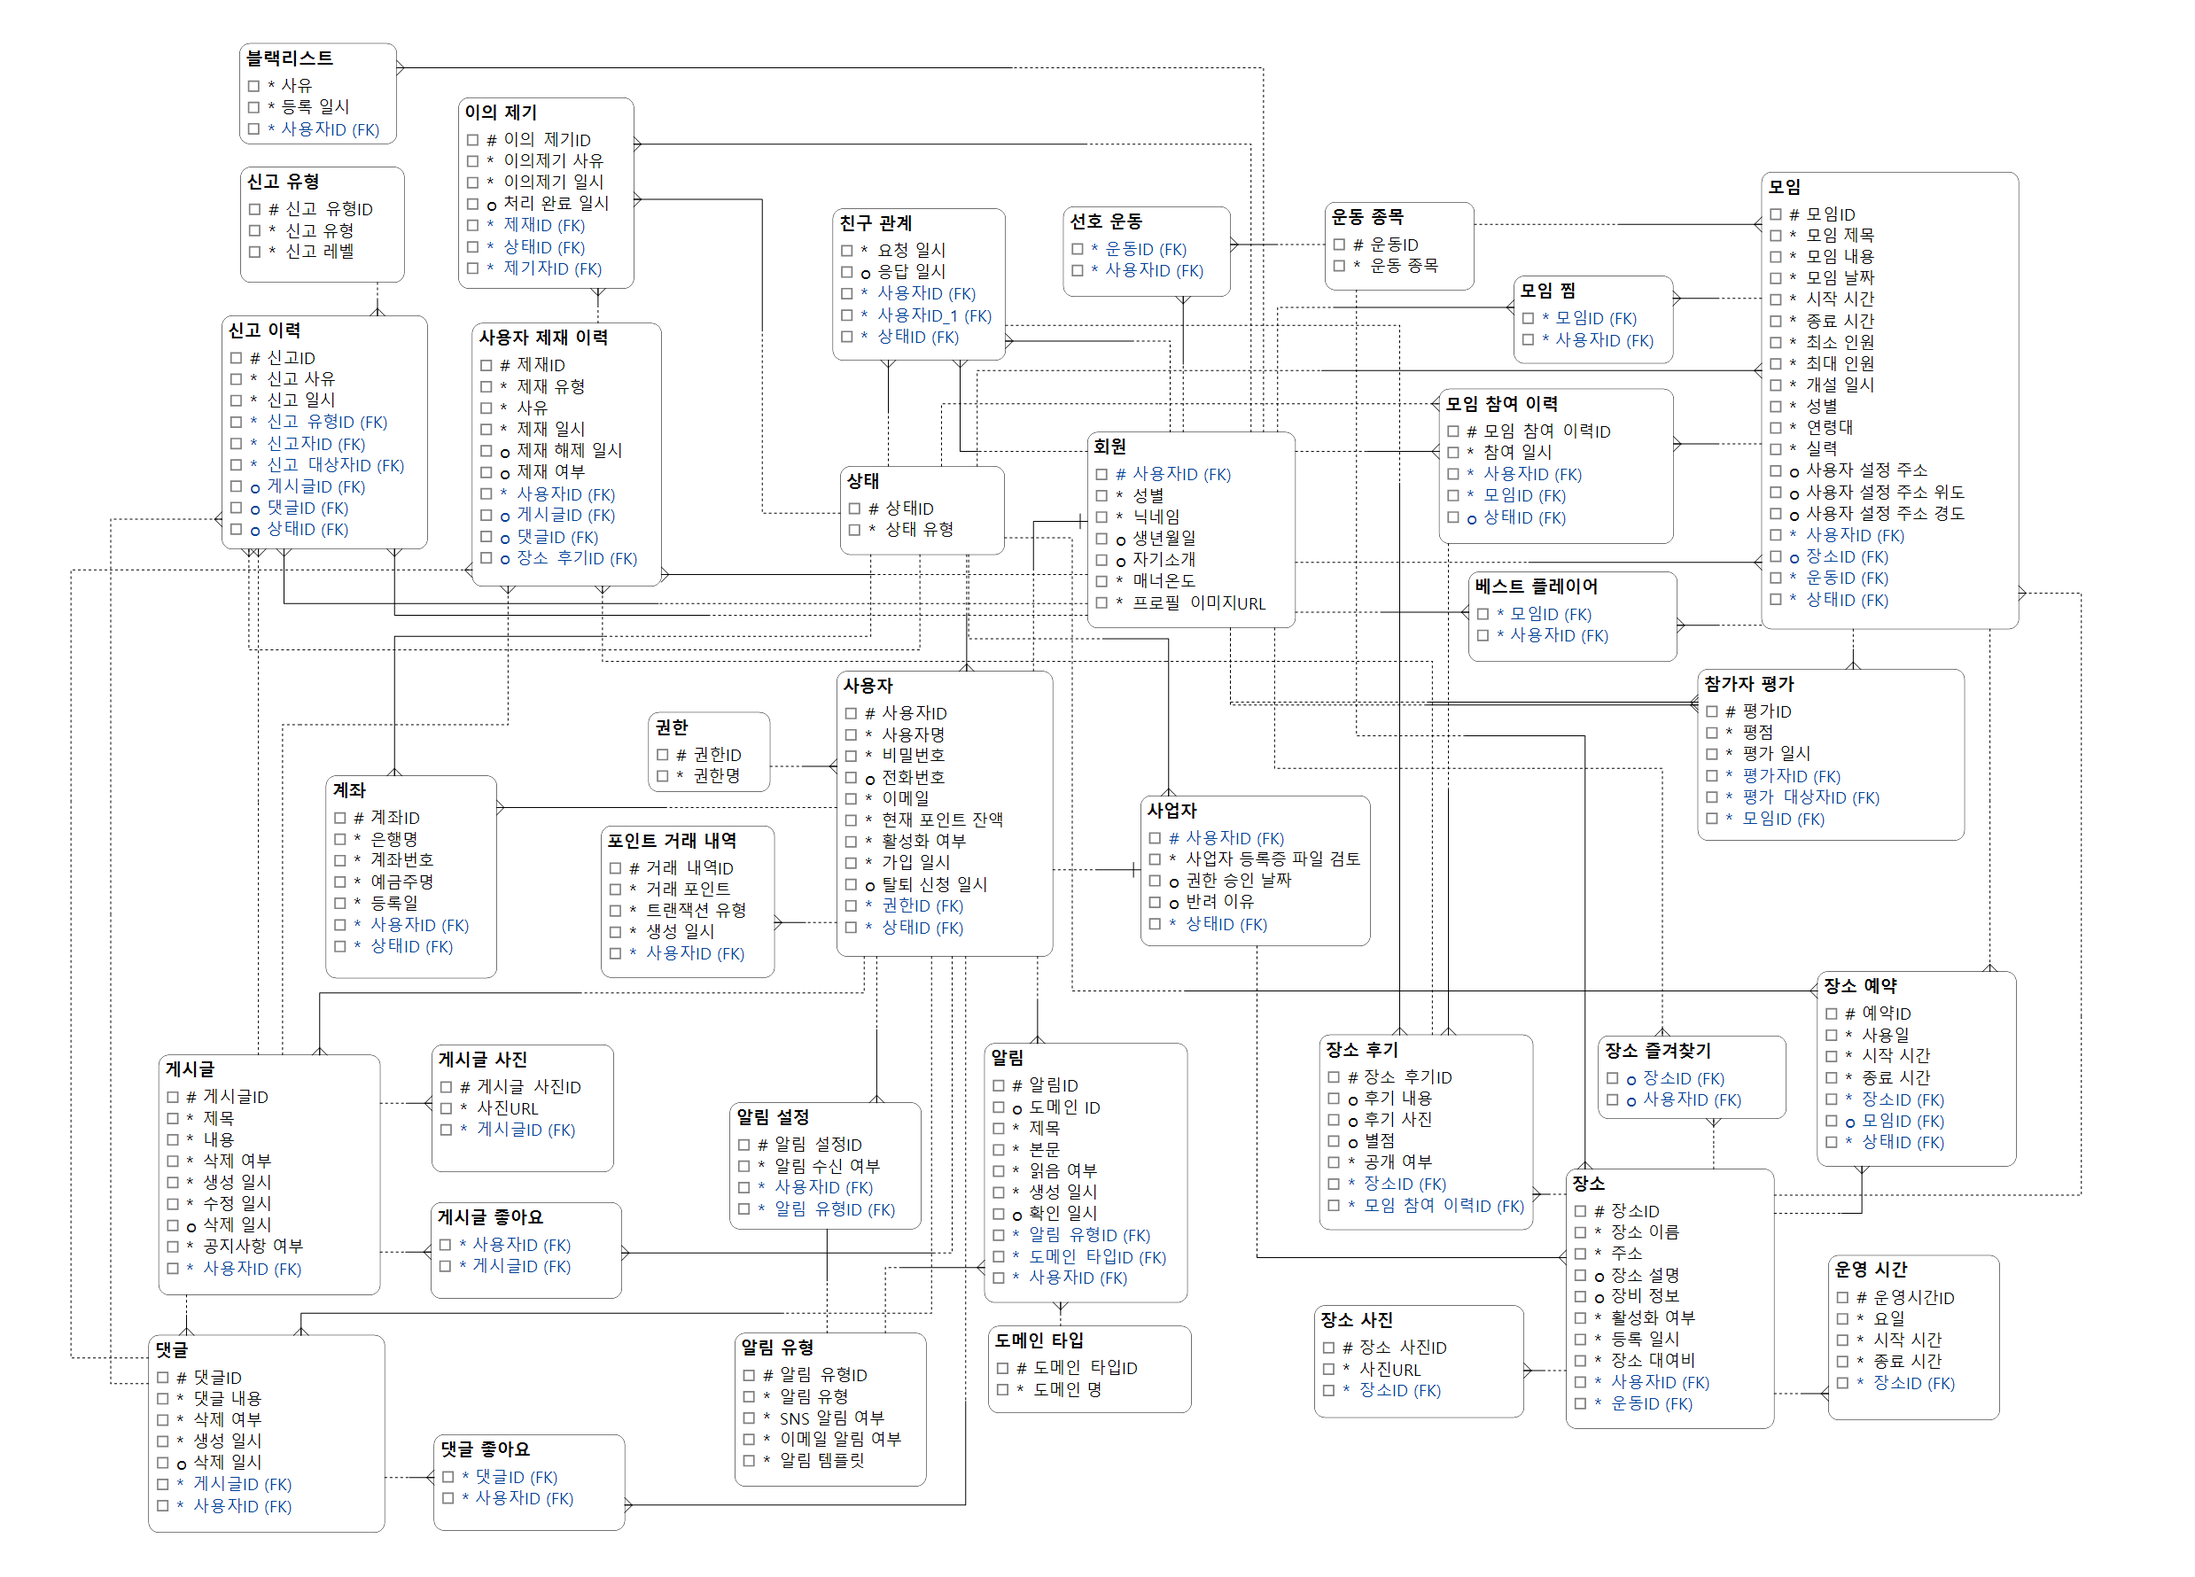
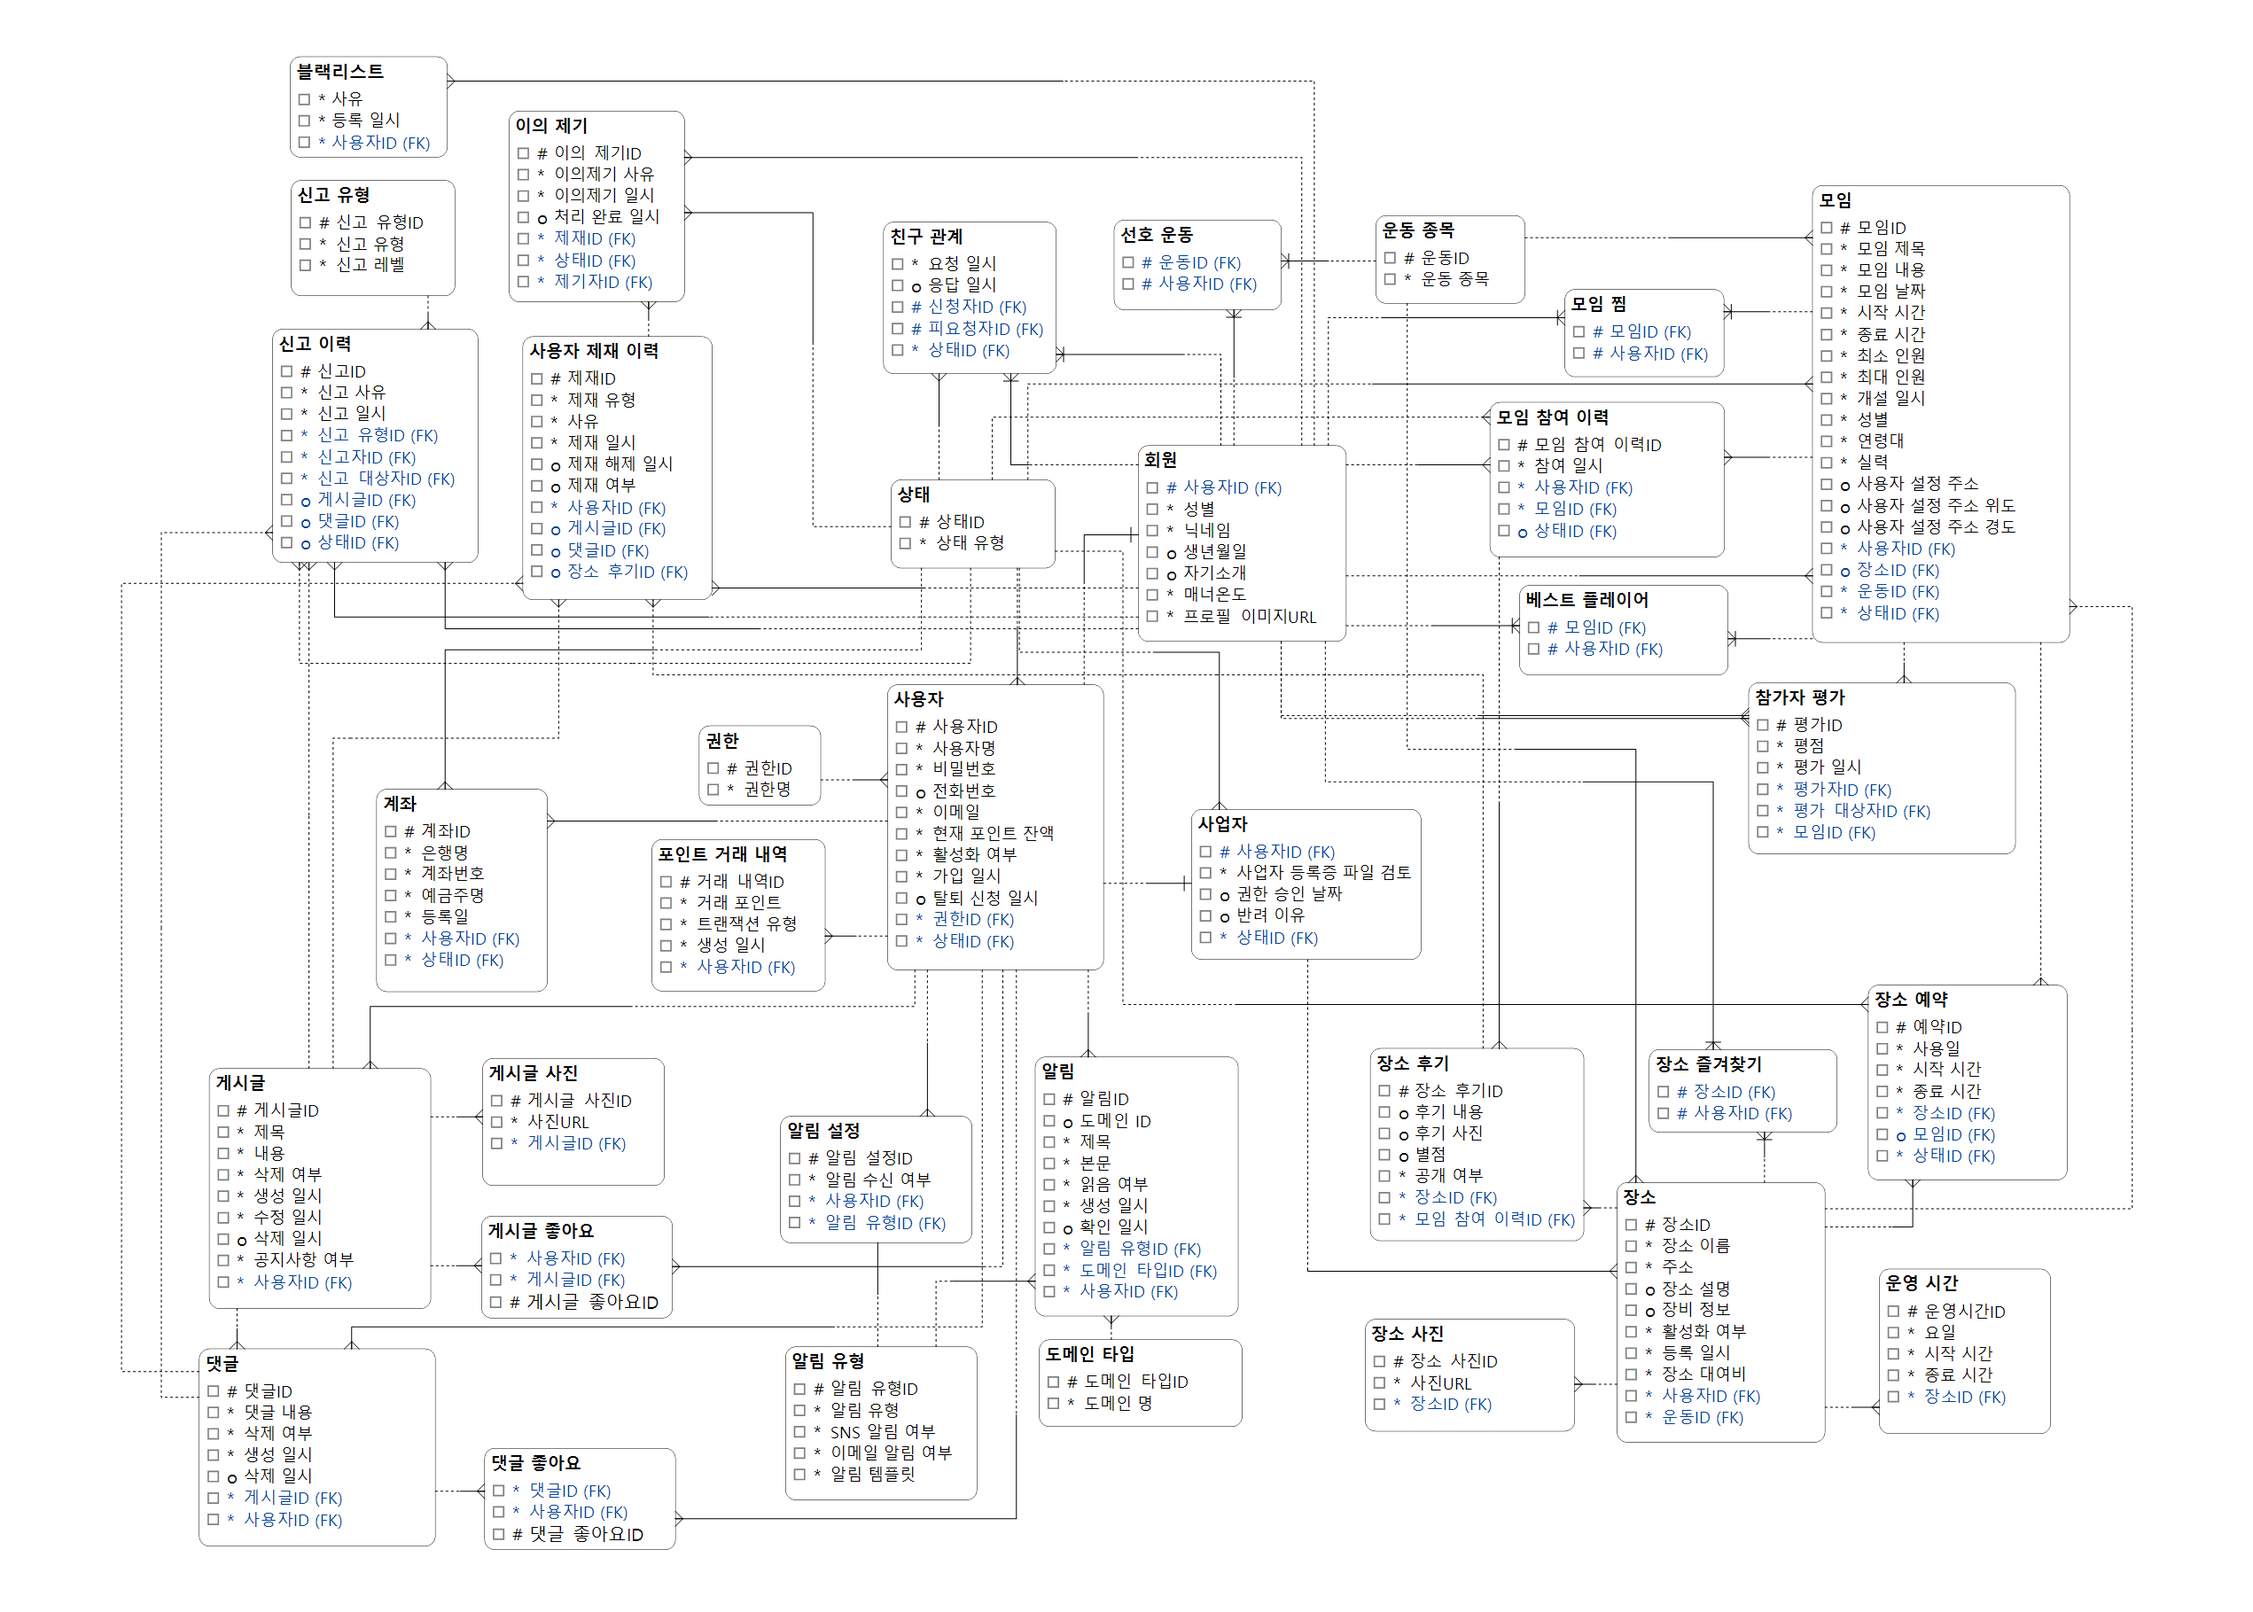
docs: readme update and assets/images update

diff --git a/README.md b/README.md
@@ -462,8 +462,11 @@ LinkUp은 모임이라는 소속에 구애받지 않고 언제든 원할 때 신
 
 ## 6. 📊 WBS (작업 분배 및 일정)
 
-> 프로젝트 기간 동안의 역할 분담 및 개발 일정표  
-> (이미지 혹은 표로 삽입)
+
+🔗 [WBS 명세서 링크](#6--wbs-작업-분배-및-일정)
+
+
+<img src="assets/images/wbs.jpg" alt="wbs" width="550"/>
 
 <br>
 
@@ -474,7 +477,7 @@ LinkUp은 모임이라는 소속에 구애받지 않고 언제든 원할 때 신
 🔗 [요구사항 명세서 링크](https://docs.google.com/spreadsheets/d/e/2PACX-1vR5o5viDNitHaRwGwl4o1biS6vLC52SPAyREVK2vDS9y13eXPo8N7CumbLhWDeejayHAh0Ji5Cmf2tf/pubhtml?gid=1583571973&single=true)
 
 
-<img src="assets/images/requirement_statement.png" alt="requirement_statement"/>
+<img src="assets/images/requirement_statement.jpg" alt="requirement_statement" width="550"/>
 
 <br>
 
@@ -659,7 +662,141 @@ LinkUp은 모임이라는 소속에 구애받지 않고 언제든 원할 때 신
 
 🔗 [테이블 정의서 링크](https://docs.google.com/spreadsheets/d/e/2PACX-1vRunQplhnLkZI3XVY3Phoj7wQVirdkzOMEnkMLMfItG7qATPKMGKVSAPNOodzxhBgE6C86Ax5my7o9p/pubhtml?gid=763788645&single=true)
 
-<img src="assets/images/table_definition.png" alt="table_definition"/>
+<details>
+<summary>🔹 기초 테이블 정의서 </summary>
+
+- 상태 테이블
+- 권한 테이블
+- 운동 종목 테이블
+
+<img src="assets/images/table_definition_init.jpg" alt="table_definition_init" width="700"/>
+
+<br>
+
+</details>
+
+<details>
+<summary>🔹 사용자 테이블 정의서 </summary>
+
+- 사용자 테이블
+- 회원 테이블
+- 친구 관계 테이블
+- 선호 운동 테이블
+
+<img src="assets/images/table_definition_user_1.jpg" alt="table_definition_user_1" width="700"/>
+<img src="assets/images/table_definition_user_2.jpg" alt="table_definition_user_2" width="700"/>
+
+<br>
+
+</details>
+
+<details>
+<summary>🔹 포인트 테이블 정의서 </summary>
+
+- 계좌 테이블
+- 포인트 거래 내역 테이블
+
+<img src="assets/images/table_definition_point.jpg" alt="table_definition_point" width="700"/>
+
+<br>
+
+</details>
+
+<details>
+<summary>🔹 장소 테이블 정의서 </summary>
+
+- 사업자 테이블
+- 장소 테이블
+- 장소 사진 테이블
+- 장소 즐겨찾기 테이블
+- 장소 예약 테이블
+- 장소 후기 테이블
+
+<img src="assets/images/table_definition_place_1.jpg" alt="table_definition_place_1" width="700"/>
+<img src="assets/images/table_definition_place_2.jpg" alt="table_definition_place_1" width="700"/>
+
+<br>
+
+</details>
+
+<details>
+<summary>🔹 모임 테이블 정의서 </summary>
+
+- 모임 테이블
+- 모임 참여이력 테이블
+- 참가자 평가 테이블
+- 베스트 플레이어 테이블
+- 모임 찜 테이블
+
+<img src="assets/images/table_definition_meeting_1.jpg" alt="table_definition_meeting_1" width="700"/>
+<img src="assets/images/table_definition_meeting_2.jpg" alt="table_definition_meeting_2" width="700"/>
+
+<br>
+
+</details>
+
+<details>
+<summary>🔹 커뮤니티 테이블 정의서 </summary>
+
+- 게시글 테이블
+- 게시글 좋아요 테이블
+- 게시글 사진 테이블
+- 댓글 테이블
+- 댓글 좋아요 테이블
+
+<img src="assets/images/table_definition_community_1.jpg" alt="table_definition_community_1" width="700"/>
+<img src="assets/images/table_definition_community_2.jpg" alt="table_definition_community_2" width="700"/>
+
+<br>
+
+</details>
+
+
+<details>
+<summary>🔹 알림 테이블 정의서 </summary>
+
+- 알림 유형 테이블
+- 알림 설정 테이블
+- 도메인 타입 테이블
+- 알림 테이블
+
+<img src="assets/images/table_definition_notification.jpg" alt="table_definition_notification" width="700"/>
+
+<br>
+
+</details>
+
+<details>
+<summary>🔹 신고 및 제재 테이블 정의서 </summary>
+
+- 신고 유형 테이블
+- 신고 이력 테이블
+- 사용자 제재 이력 테이블
+- 이의제기 테이블
+- 블랙리스트 테이블
+
+<img src="assets/images/table_definition_report.jpg" alt="table_definition_report" width="700"/>
+<img src="assets/images/table_definition_penalty.jpg" alt="table_definition_penalty" width="700"/>
+
+<br>
+
+</details>
+
+<details>
+<summary>🔹 토큰 테이블 정의서 </summary>
+
+- 인증 토큰 테이블
+- 리프레시 토큰 테이블
+
+<img src="assets/images/table_definition_token.jpg" alt="table_definition_token" width="700"/>
+
+<br>
+
+</details>
+
+
+
+
 
 <br>
 
